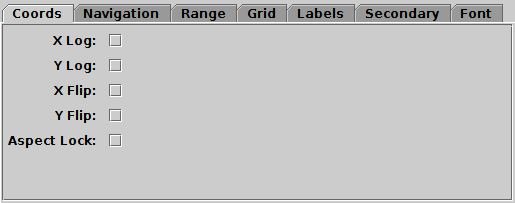
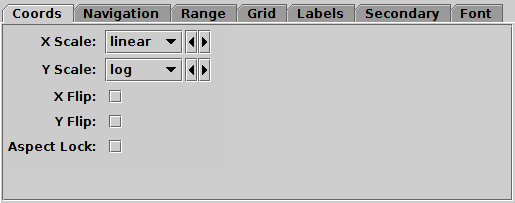
topcat: document new scale options and GUI

Changed region(s): [[0.0, 0.1478, 0.435, 0.7685]]

diff --git a/ttools/src/main/uk/ac/starlink/ttools/build/Plot2Example.java b/ttools/src/main/uk/ac/starlink/ttools/build/Plot2Example.java
@@ -1800,6 +1800,25 @@ public class Plot2Example {
                 "*leglabel_A=RRAB", "*leglabel_C=RRC", "*legseq=_A_m,_C_m",
                 "*legpos=1,1", "legend=true",
             } ),
+            new Plot2Example( "scales", c, PlotTask.PLANE, new String[] {
+                "xpix=650", "aspect=1", "grid=true", "minor=false",
+                null,
+                "xmin=-3.2", "xmax=10.5", "ymin=-3.2", "ymax=3.5", null,
+                "legend=true", "legpos=0.1,0.9",
+                "thick=4", "antialias=false", "texttype=antialias",
+                "layer1=function", "fexpr1=x", "leglabel1=x",
+                                   "color1=red", null,
+                "layer2=function", "fexpr2=x<.001?-1e10:log10(x)",
+                                   "leglabel2=log10(x)",
+                                   "color2=DodgerBlue", null,
+                "layer3=function", "fexpr3=asinh(x/2)/ln(10)",
+                                   "leglabel3=asinh(x/2)/ln(10)",
+                                   "color3=green", null,
+                "layer4=function", "fexpr4=symlog(1,1,x)",
+                                   "leglabel4=symlog(1,1,x)",
+                                   "color4=orange", null,
+                "seq=1,4,3,2",
+            } ),
         };
     }
 
